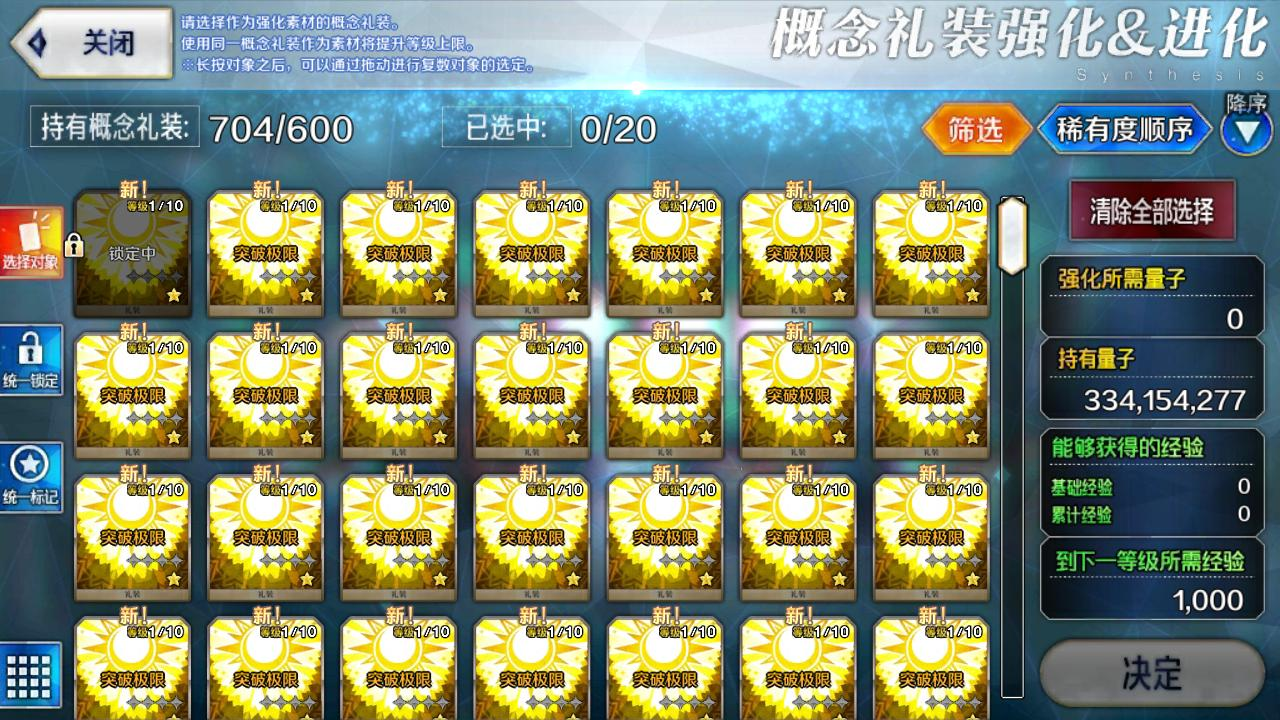
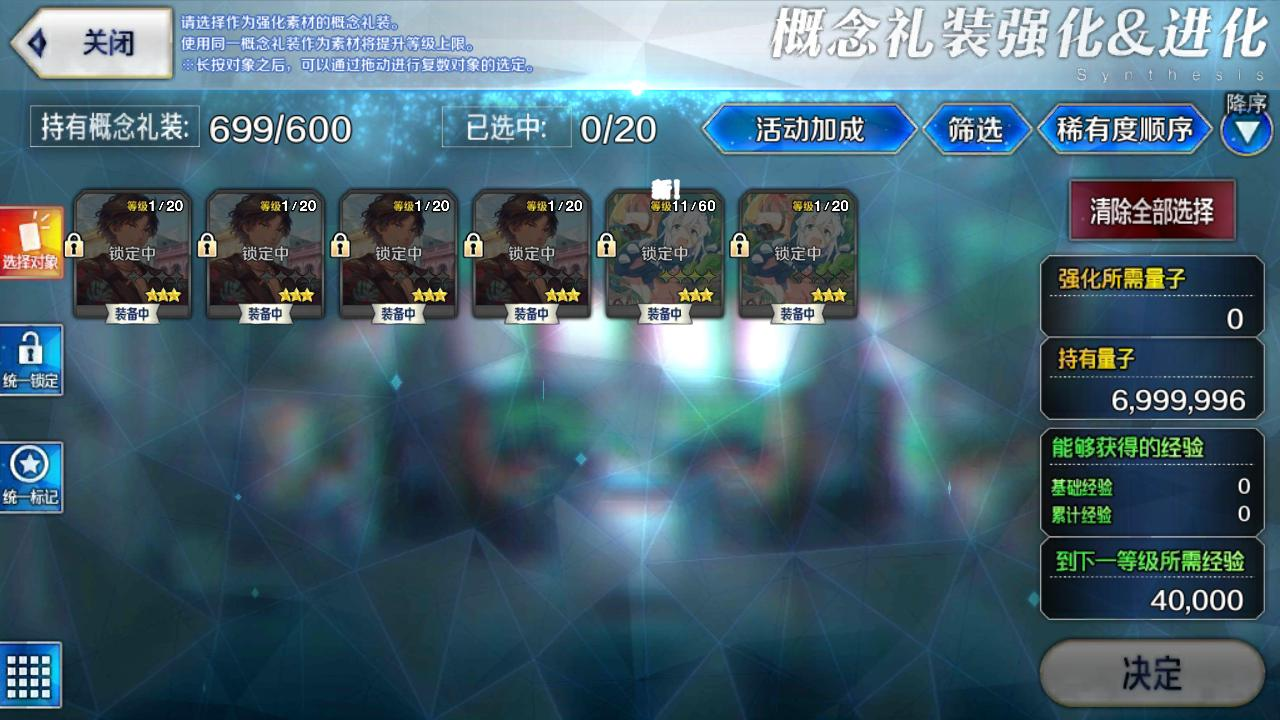
v1.5.3

diff --git a/FGO-ExpBall/fgoKernel.py b/FGO-ExpBall/fgoKernel.py
@@ -35,7 +35,7 @@ class ExpBall:
                     BACK.click(1.5)
                 SUMMON_CONTINUE.click(.8)
             logger.info('Sell servant')
-            SUMMON_SALE.click(4)
+            SUMMON_SALE.click(3)
             SELECT_FINISH.wait()
             SELECT_SERVANT.click(2)
             if self.runOnce: # 每行7个 获得顺序 智能筛选
@@ -75,12 +75,15 @@ class ExpBall:
             BACK.click(3)
             logger.info('Reisou select')
             SPACE.click(.5)
-            MAIN_SYNTHESIS.click(4)
+            MAIN_SYNTHESIS.click(3)
+            BACK.wait()
             SYNTHESIS_SYNTHESIS.click(3)
             SYNTHESIS_LOAD.wait().click(3)
-            if self.runOnce: # 每行7个 1星 等级顺序 智能筛选 降序
+            if self.runOnce: # 每行7个 全部 1星 等级顺序 智能筛选 降序
                 while not SELECT_GIRD.appear():
                     SELECT_GIRD.click(2)
+                while FILTER_EVENT.appear():
+                    FILTER_EVENT.click(.8)
                 FILTER_FILTER.click(.8)
                 FILTER_RESET.click(.5)
                 FILTER_STAR_1.click(.5)
@@ -106,9 +109,11 @@ class ExpBall:
             logger.info('Reisou synthesis')
             SYNTHESIS_ENTER.click(1)
             SELECT_FINISH.wait()
-            if self.runOnce: # 每行7个 12星 稀有度顺序 智能筛选 降序
+            if self.runOnce: # 每行7个 全部 12星 稀有度顺序 智能筛选 降序
                 while not SELECT_GIRD.appear():
                     SELECT_GIRD.click(2)
+                while FILTER_EVENT.appear():
+                    FILTER_EVENT.click(.8)
                 FILTER_FILTER.click(.8)
                 FILTER_RESET.click(.5)
                 FILTER_STAR_1.click(.5)
@@ -138,7 +143,8 @@ class ExpBall:
             BACK.click(1).wait().click(1).wait()
             logger.info('Archive')
             SPACE.click(.5)
-            MAIN_ARCHIVE.click(4)
+            MAIN_ARCHIVE.click(3)
+            BACK.wait()
             ARCHIVE_ARCHIVE.click(3)
             SELECT_FINISH.wait()
             if self.runOnce: # 每行7个 经验值 芙芙
@@ -159,7 +165,7 @@ class ExpBall:
                 SELECT_FINISH.wait()
                 ARCHIVE_RESULT.click(1)
             BACK.click(1).wait()
-            logger.info('GC, please wait')
+            logger.info('Garbage Collection')
             SPACE.click(.5)
             MAIN_MAIN.click(6)
             BACK.wait(4)

diff --git a/FGO-ExpBall/fgoDetect.py b/FGO-ExpBall/fgoDetect.py
@@ -68,9 +68,8 @@ SELECT_CODE=Button((475,128))
 SELECT_GIRD=Button((28,677),'sort',(21,21))
 SELECT_FINISH=Button((1153,673),'lock',(27,12))
 SELECT_LOCK=Button((74,246),'lock',(6,8),.13,4)
+FILTER_EVENT=Button((804,130),'lock',(80,18))
 FILTER_FILTER=Button((980,130))
-FILTER_STAR_5=Button((266,235))
-FILTER_STAR_4=Button((454,235))
 FILTER_STAR_3=Button((642,235))
 FILTER_STAR_2=Button((831,235))
 FILTER_STAR_1=Button((1019,235))

diff --git a/FGO-ExpBall/fgoConst.py b/FGO-ExpBall/fgoConst.py
@@ -1,2 +1,2 @@
-VERSION='v1.5.2'
+VERSION='v1.5.3'
 KEYMAP={} # deprecated in FGO-ExpBall

diff --git a/readme.md b/readme.md
@@ -14,7 +14,7 @@ FGO-ExpBall是专门用来搓丸子的程序,如果你不知道什么是[FGO-py]
 ## 警告
 
 尽管本项目已经采取了充分必要的手段尽可能地保证你的账户资产安全,但是仍强烈建议你把重要物品上锁甚至放入灵基保管室  
-特别注意三星礼装狗粮  
+特别注意三星礼装狗粮和高星从者  
 在搓丸子前几轮运行时请**密切关注程序行为**,发现有任何看起来不对的情况请立即使用包括但不限于以下手段使程序失能,然后再考虑是不是真的有问题  
 
 - 按下锁屏按钮
@@ -61,6 +61,11 @@ FGO-ExpBall是专门用来搓丸子的程序,如果你不知道什么是[FGO-py]
 内容有点长,所以发到[B站专栏](https://www.bilibili.com/read/cv18100391)了,如果能有点赞和投币我会很开心  
 
 ## 更新日志
+
+### 2022/09/09 v1.5.3
+
+Add:反活动加成筛选  
+Opt:部分延时调整  
 
 ### 2022/09/08 v1.5.2
 
